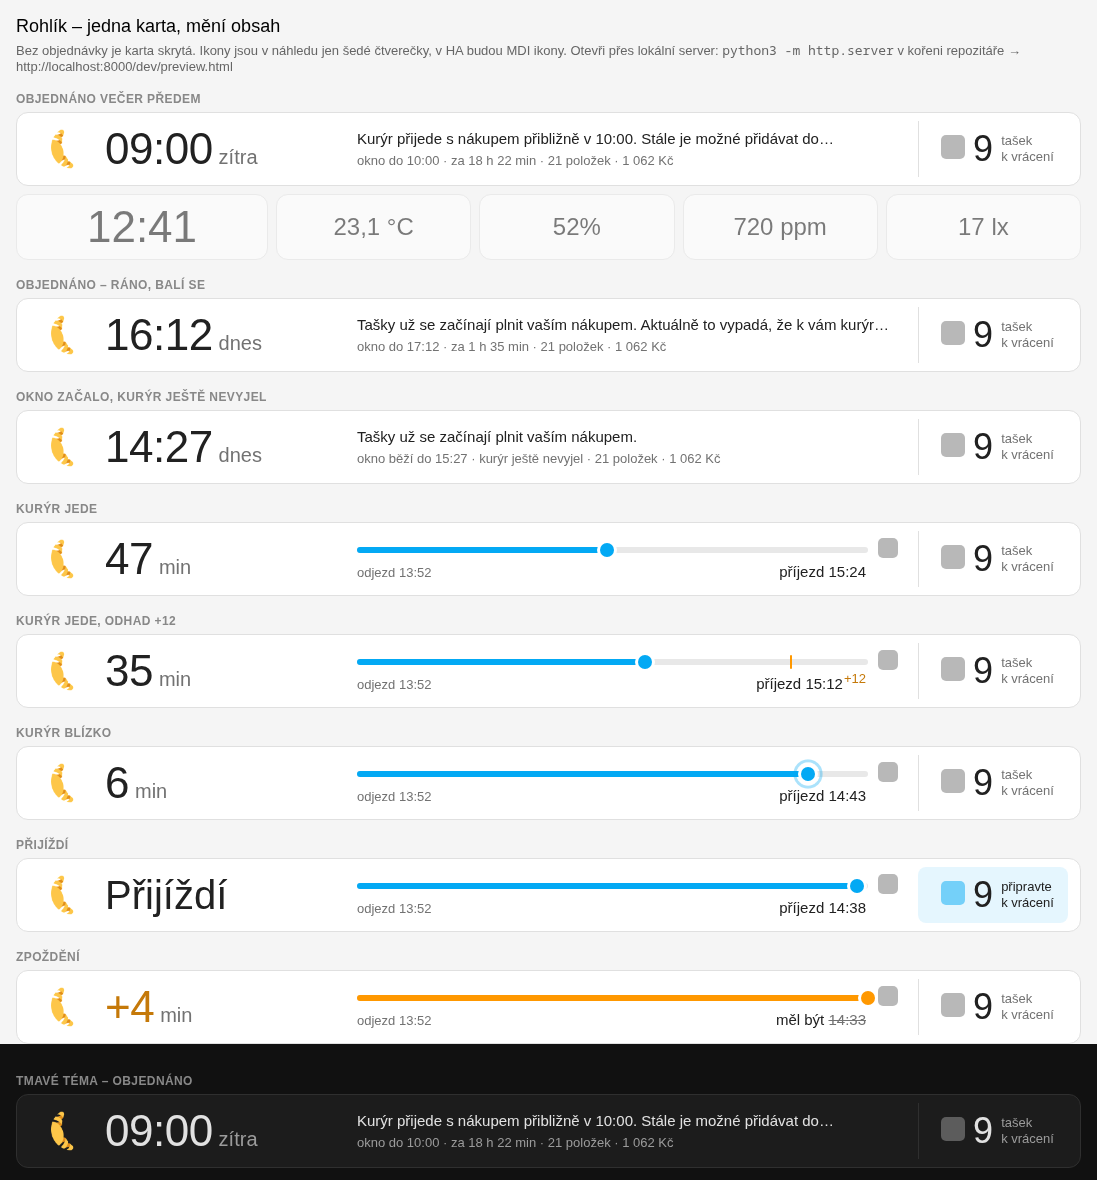
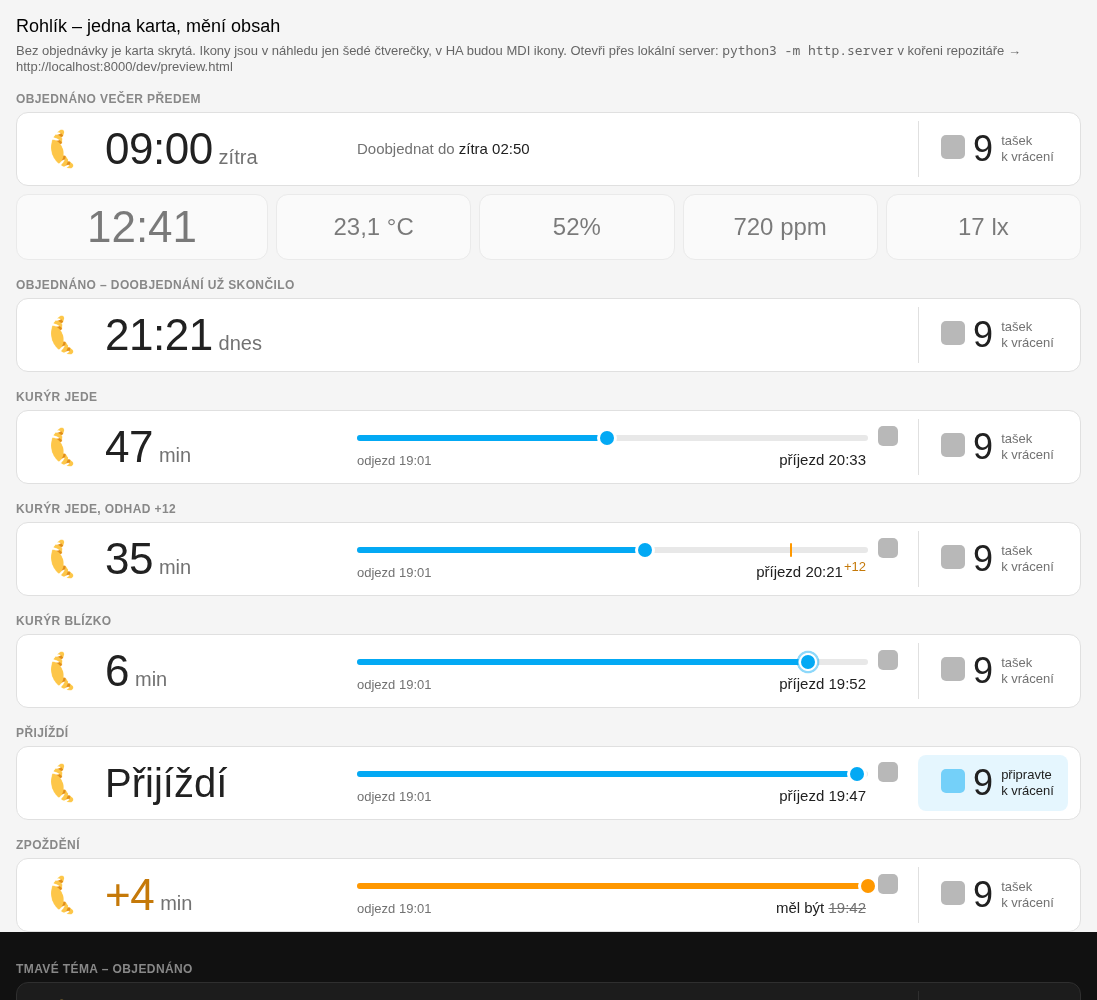
Ordered state: delivery time and add-items deadline; tap for the item list (v1.0.3)
- Ordered shows only the delivery time and until when items can be added
- Tapping opens a dialog with the order's items (from the integration's
  Next Order items), falling back to more-info
- number_weight option (regular/bold) for the big numbers
- Editor preview note sits on the top border, clear of the content

diff --git a/rohlik-courier-card.js b/rohlik-courier-card.js
@@ -15,10 +15,10 @@
  * (https://github.com/hruskin/HA-Rohlik-dynamic) for the courier states.
  *
  * Entities are found by the integration's translation keys; override with
- * `<name>_entity` (courier, eta, minutes, bags, ordered, info, since, till).
+ * `<name>_entity` (courier, eta, minutes, bags, ordered, info, since, till, deadline).
  */
 
-const VERSION = "1.0.2";
+const VERSION = "1.0.3";
 const DOMAIN = "rohlikcz";
 const KEYS = {
   courier: ["binary_sensor", "courier_on_the_way"],
@@ -29,6 +29,7 @@ const KEYS = {
   info: ["sensor", "delivery_info"],
   since: ["sensor", "next_order_since"],
   till: ["sensor", "next_order_till"],
+  deadline: ["sensor", "order_edit_deadline"],
 };
 // Rohlík.cz brand icon from the Home Assistant brands repository (what HA itself shows).
 const LOGO_URL = "https://brands.home-assistant.io/rohlikcz/icon.png";
@@ -51,6 +52,7 @@ const STYLE = `
   --rk-warn-text: color-mix(in srgb, var(--rk-warn) 74%, var(--rk-text));
   --rk-rail: color-mix(in srgb, var(--rk-text) 10%, transparent);
   --rk-state: var(--rk-accent);
+  --rk-num-weight: 400;
 
   position: relative;
   box-sizing: border-box;
@@ -90,7 +92,7 @@ ha-icon { display: block; }
 .count { grid-area: count; min-width: 0; }
 .count__main { display: flex; align-items: baseline; gap: 6px; white-space: nowrap; }
 .count__num {
-  font-size: 44px; line-height: 44px; font-weight: 400; letter-spacing: -.5px;
+  font-size: 44px; line-height: 44px; font-weight: var(--rk-num-weight); letter-spacing: -.5px;
   font-variant-numeric: tabular-nums;
 }
 .count__unit { font-size: 20px; color: var(--rk-text-2); }
@@ -137,7 +139,8 @@ ha-icon { display: block; }
   font-size: 15px; line-height: 20px; color: var(--rk-text);
   display: -webkit-box; -webkit-line-clamp: 1; -webkit-box-orient: vertical; overflow: hidden;
 }
-.info__meta { margin-top: 4px; font-size: 13px; line-height: 16px; color: var(--rk-text-2); font-variant-numeric: tabular-nums; }
+.info__msg b { font-weight: 500; }
+.info__msg span { color: var(--rk-text-2); }
 .banner--ordered .info { display: block; }
 .banner--ordered .track { display: none; }
 
@@ -151,12 +154,42 @@ ha-icon { display: block; }
   border-left: 1px solid var(--rk-border);
 }
 .bags__icon { color: var(--rk-text-2); --mdc-icon-size: 24px; }
-.bags__num { font-size: 36px; line-height: 40px; font-variant-numeric: tabular-nums; }
+.bags__num { font-size: 36px; line-height: 40px; font-weight: var(--rk-num-weight); font-variant-numeric: tabular-nums; }
 .bags__cap { font-size: 13px; line-height: 16px; color: var(--rk-text-2); white-space: pre-line; }
 
+/* order items: a native modal dialog, so it escapes the card's containment */
+.items {
+  box-sizing: border-box; width: min(480px, calc(100vw - 32px)); max-height: min(80vh, 640px);
+  padding: 0; border: none; border-radius: var(--ha-card-border-radius, 12px);
+  background: var(--card-background-color, #fff); color: var(--primary-text-color, #212121);
+  font-family: var(--ha-font-family-body, Roboto, "Helvetica Neue", Arial, sans-serif);
+  box-shadow: 0 8px 32px rgba(0, 0, 0, .25);
+}
+.items[open] { display: flex; flex-direction: column; }
+.items::backdrop { background: rgba(0, 0, 0, .4); }
+.items__head {
+  display: flex; align-items: center; gap: 12px; padding: 16px 12px 12px 20px;
+  border-bottom: 1px solid var(--divider-color, #e0e0e0);
+}
+.items__title { flex: 1; font-size: 18px; font-weight: 500; }
+.items__close {
+  width: 36px; height: 36px; border: none; border-radius: 50%; background: none; cursor: pointer;
+  color: var(--secondary-text-color, #727272); font-size: 24px; line-height: 36px;
+}
+.items__close:hover { background: color-mix(in srgb, var(--primary-text-color, #212121) 8%, transparent); }
+.items__list { list-style: none; margin: 0; padding: 4px 0 12px; overflow-y: auto; outline: none; }
+.items__list li {
+  display: flex; justify-content: space-between; gap: 16px; padding: 10px 20px;
+  font-size: 15px; line-height: 20px;
+}
+.items__list li + li { border-top: 1px solid color-mix(in srgb, var(--divider-color, #e0e0e0) 60%, transparent); }
+.items__qty { flex: none; color: var(--secondary-text-color, #727272); font-variant-numeric: tabular-nums; }
+
+/* sits on the top border like a fieldset legend, clear of the content */
 .preview-note {
-  position: absolute; top: 6px; right: 12px;
-  font-size: 11px; color: var(--rk-text-2); letter-spacing: .3px; text-transform: uppercase;
+  position: absolute; top: 0; left: 50%; transform: translate(-50%, -50%);
+  padding: 0 8px; background: var(--rk-bg); white-space: nowrap;
+  font-size: 11px; line-height: 14px; color: var(--rk-text-2); letter-spacing: .3px; text-transform: uppercase;
 }
 
 .banner--nearby .track__marker::after {
@@ -218,13 +251,18 @@ const TEMPLATE = `
     </div>
     <div class="track__labels"><span class="track__dep"></span><span class="track__eta"></span></div>
   </div>
-  <div class="info"><div class="info__msg"></div><div class="info__meta"></div></div>
+  <div class="info"><div class="info__msg"></div></div>
   <div class="bags">
     <div class="bags__icon"><ha-icon icon="mdi:shopping-outline" aria-hidden="true"></ha-icon></div>
     <div class="bags__num"></div>
     <div class="bags__cap"></div>
   </div>
-</div>`;
+</div>
+<dialog class="items" aria-label="Položky nákupu">
+  <div class="items__head"><span class="items__title"></span><button class="items__close" aria-label="Zavřít">×</button></div>
+  <ul class="items__list" tabindex="-1"></ul>
+</dialog>
+`;
 
 const plural = (n, one, few, many) => (n === 1 ? one : n >= 2 && n <= 4 ? few : many);
 const hm = (date) => date.toLocaleTimeString("cs-CZ", { hour: "2-digit", minute: "2-digit" });
@@ -242,14 +280,6 @@ const relativeDay = (date, now) => {
   const weekday = date.toLocaleDateString("cs-CZ", { weekday: "short" });
   return `${weekday} ${date.getDate()}. ${date.getMonth() + 1}.`;
 };
-// "za 14 h 18 min" / "za 40 min"
-const inDuration = (ms) => {
-  const total = Math.max(0, Math.round(ms / 60000));
-  const h = Math.floor(total / 60), m = total % 60;
-  return h ? `za ${h} h${m ? ` ${m} min` : ""}` : `za ${m} min`;
-};
-const price = (amount) =>
-  `${Number(amount).toLocaleString("cs-CZ", { maximumFractionDigits: 0 })} Kč`;
 
 class RohlikCourierCard extends HTMLElement {
   static getStubConfig() {
@@ -320,7 +350,7 @@ class RohlikCourierCard extends HTMLElement {
     const $ = (sel) => root.querySelector(sel);
     this._el = {
       banner: $(".banner"), icon: $(".icon ha-icon"), num: $(".count__num"), unit: $(".count__unit"),
-      sub: $(".count__sub"), track: $(".track"), msg: $(".info__msg"), meta: $(".info__meta"), rail: $(".track__rail"), orig: $(".track__orig"),
+      sub: $(".count__sub"), track: $(".track"), msg: $(".info__msg"), rail: $(".track__rail"), orig: $(".track__orig"),
       dep: $(".track__dep"), eta: $(".track__eta"), bagsNum: $(".bags__num"), bagsCap: $(".bags__cap"),
       iconTile: $(".icon"), logo: $(".icon__logo"),
     };
@@ -329,7 +359,12 @@ class RohlikCourierCard extends HTMLElement {
       this._logoFailed = true;
       this._el.iconTile.classList.remove("icon--logo");
     });
+    const dialog = root.querySelector(".items");
+    root.querySelector(".items__close").addEventListener("click", () => dialog.close());
+    // A click on the backdrop lands on the dialog element itself.
+    dialog.addEventListener("click", (ev) => ev.target === dialog && dialog.close());
     const open = () => {
+      if (this._openItems(dialog)) return;
       const entityId = this._entityId(this._mode === "ordered" ? "ordered" : "courier");
       if (!entityId) return;
       this.dispatchEvent(new CustomEvent("hass-more-info", { detail: { entityId }, bubbles: true, composed: true }));
@@ -341,6 +376,34 @@ class RohlikCourierCard extends HTMLElement {
         open();
       }
     });
+  }
+
+  // The order's line items in a modal; false when the integration has none to show.
+  _openItems(dialog) {
+    const items = this._state("ordered")?.attributes?.items;
+    if (!Array.isArray(items) || !items.length) return false;
+    dialog.querySelector(".items__title").textContent =
+      `Nákup · ${items.length} ${plural(items.length, "položka", "položky", "položek")}`;
+    const list = dialog.querySelector(".items__list");
+    list.replaceChildren(...items.map((item) => {
+      const li = document.createElement("li");
+      const name = document.createElement("span");
+      name.textContent = item.name ?? "";
+      const qty = document.createElement("span");
+      qty.className = "items__qty";
+      const amount = Number(item.amount) || 1;
+      const textual = item.textual_amount || "";
+      const perPiece = textual.match(/^1\s+(\S+)$/); // "1 ks" × 4 → "4 ks"
+      qty.textContent = amount <= 1 ? textual || "1 ks"
+        : perPiece ? `${amount} ${perPiece[1]}`
+        : `${amount} ×${textual ? ` ${textual}` : ""}`;
+      li.append(name, qty);
+      return li;
+    }));
+    dialog.showModal();
+    list.focus(); // not the close button, which would show a focus ring
+    list.scrollTop = 0;
+    return true;
   }
 
   _data() {
@@ -375,22 +438,18 @@ class RohlikCourierCard extends HTMLElement {
   _orderedData() {
     const order = this._state("ordered")?.attributes?.order_data || {};
     const slot = order.deliverySlot || {};
-    const info = this._state("info")?.state;
     const bags = Number.parseInt(this._state("bags")?.state, 10);
     return {
       mode: "ordered", now: Date.now(),
       since: toDate(this._state("since")?.state) || toDate(slot.since),
       till: toDate(this._state("till")?.state) || toDate(slot.till),
-      message: info && !["unknown", "unavailable"].includes(info) ? info : null,
-      items: order.itemsCount ?? null,
-      total: order.priceComposition?.total?.amount ?? null,
+      deadline: toDate(this._state("deadline")?.state),
       bags: Number.isNaN(bags) ? null : bags,
     };
   }
 
   _renderOrdered(d) {
     const el = this._el;
-    const started = d.since && d.now >= d.since;
     el.banner.className = "banner banner--ordered";
     el.icon.setAttribute("icon", "mdi:package-variant-closed");
     el.num.textContent = d.since ? hm(d.since) : "–";
@@ -398,18 +457,16 @@ class RohlikCourierCard extends HTMLElement {
     el.unit.textContent = d.since ? relativeDay(d.since, d.now) : "";
     const till = d.till ? hm(d.till) : null;
     el.sub.textContent = "";
-    el.msg.textContent = d.message || "Objednávka čeká na doručení";
-    el.meta.textContent = [
-      ...(started
-        ? [`okno běží${till ? ` do ${till}` : ""}`, "kurýr ještě nevyjel"]
-        : [till ? `okno do ${till}` : null, d.since ? inDuration(d.since - d.now) : null]),
-      d.items != null ? `${d.items} ${plural(d.items, "položka", "položky", "položek")}` : null,
-      d.total != null ? price(d.total) : null,
-    ].filter(Boolean).join(" · ");
+    // Only until when items can still be added; nothing once that has passed.
+    const canAdd = d.deadline && d.deadline > d.now;
+    el.msg.innerHTML = canAdd
+      ? `<span>Doobjednat do</span> <b>${relativeDay(d.deadline, d.now)} ${hm(d.deadline)}</b>`
+      : "";
     el.bagsNum.textContent = String(d.bags ?? "–");
     el.bagsCap.textContent = `${plural(d.bags ?? 0, "taška", "tašky", "tašek")}\nk vrácení`;
     el.banner.setAttribute("aria-label",
-      `Rohlík: objednávka${d.since ? ` dorazí ${relativeDay(d.since, d.now)} od ${hm(d.since)}` : ""}${till ? ` do ${till}` : ""}.`);
+      `Rohlík: objednávka${d.since ? ` dorazí ${relativeDay(d.since, d.now)} od ${hm(d.since)}` : ""}${till ? ` do ${till}` : ""}.`
+      + (canAdd ? ` Doobjednat lze do ${relativeDay(d.deadline, d.now)} ${hm(d.deadline)}.` : ""));
   }
 
   _render() {
@@ -424,6 +481,7 @@ class RohlikCourierCard extends HTMLElement {
     const logo = this._config.show_logo !== false && !this._logoFailed;
     if (logo && !el.logo.getAttribute("src")) el.logo.src = LOGO_URL;
     el.iconTile.classList.toggle("icon--logo", logo);
+    el.banner.style.setProperty("--rk-num-weight", this._config.number_weight === "bold" ? "600" : "400");
     if (d.mode === "ordered") {
       this._renderOrdered(d);
       return;
@@ -501,9 +559,22 @@ const ENTITY_FIELDS = [
   ["info_entity", "Informace o doručení", "sensor"],
   ["since_entity", "Začátek doručení", "sensor"],
   ["till_entity", "Konec doručení", "sensor"],
+  ["deadline_entity", "Doobjednat do", "sensor"],
 ];
 const EDITOR_SCHEMA = [
   { name: "show_logo", selector: { boolean: {} } },
+  {
+    name: "number_weight",
+    selector: {
+      select: {
+        mode: "dropdown",
+        options: [
+          { value: "regular", label: "Normální" },
+          { value: "bold", label: "Tučné" },
+        ],
+      },
+    },
+  },
   {
     name: "entities",
     type: "expandable",
@@ -517,6 +588,7 @@ const EDITOR_SCHEMA = [
 ];
 const EDITOR_LABELS = {
   show_logo: "Logo Rohlíku vlevo",
+  number_weight: "Písmo čísel",
   ...Object.fromEntries(ENTITY_FIELDS.map(([name, label]) => [name, label])),
 };
 
@@ -546,14 +618,16 @@ class RohlikCourierCardEditor extends HTMLElement {
         for (const [key, value] of Object.entries(config)) {
           if (value === "" || value === undefined || value === null) delete config[key];
         }
-        if (config.show_logo === true) delete config.show_logo; // default
+        // Keep defaults out of the YAML.
+        if (config.show_logo === true) delete config.show_logo;
+        if (config.number_weight === "regular") delete config.number_weight;
         this._config = config;
         this.dispatchEvent(new CustomEvent("config-changed", { detail: { config }, bubbles: true, composed: true }));
       });
       this.append(note, this._form);
     }
     this._form.hass = this._hass;
-    this._form.data = { show_logo: true, ...this._config };
+    this._form.data = { show_logo: true, number_weight: "regular", ...this._config };
   }
 }
 

diff --git a/dev/preview.html b/dev/preview.html
@@ -18,18 +18,19 @@ const now=Date.now(),m=60000,iso=t=>new Date(t).toISOString();
 const day=new Date();day.setHours(0,0,0,0);
 const at=(d,h,mi=0)=>day.getTime()+d*86400000+(h*60+mi)*m;
 const E=(id,k)=>({entity_id:id,platform:'rohlikcz',translation_key:k});
-const ents={};[['binary_sensor.k','courier_on_the_way'],['sensor.e','delivery_time'],['sensor.m','delivery_minutes'],['sensor.b','bags_amount'],['binary_sensor.o','is_ordered'],['sensor.i','delivery_info'],['sensor.s','next_order_since'],['sensor.t','next_order_till']].forEach(([i,k])=>ents[i]=E(i,k));
+const ents={};[['binary_sensor.k','courier_on_the_way'],['sensor.e','delivery_time'],['sensor.m','delivery_minutes'],['sensor.b','bags_amount'],['binary_sensor.o','is_ordered'],['sensor.i','delivery_info'],['sensor.s','next_order_since'],['sensor.t','next_order_till'],['sensor.d','order_edit_deadline']].forEach(([i,k])=>ents[i]=E(i,k));
 function hass(o){const st={};
- st['binary_sensor.o']={state:'on',attributes:{order_data:{id:1,itemsCount:21,priceComposition:{total:{amount:1062.44}},deliverySlot:{since:iso(o.since),till:iso(o.till)}}}};
+ st['binary_sensor.o']={state:'on',attributes:{order_data:{id:1,itemsCount:21,priceComposition:{total:{amount:1062.44}},deliverySlot:{since:iso(o.since),till:iso(o.till)}},items:ITEMS}};
+ st['sensor.d']={state:o.deadline?iso(o.deadline):'unknown'};
  st['sensor.s']={state:iso(o.since)};st['sensor.t']={state:iso(o.till)};st['sensor.i']={state:o.msg||'unknown'};st['sensor.b']={state:'9'};
  if(o.mins!==undefined){const eta=now+o.mins*m;st['binary_sensor.k']={state:'on',attributes:{departed_at:iso(now-45*m),initial_eta:iso(eta-(o.shift||0)*m),courier:'Petr',phone:o.phone||null,nearby:!!o.phone}};st['sensor.e']={state:iso(eta)};st['sensor.m']={state:String(o.mins)};}
  else st['binary_sensor.k']={state:'off',attributes:{}};
  return {entities:ents,states:st};}
+const ITEMS=[['Miil Máslo 82%',2,'250 g'],['BIO kiwi kus (cca 80g)',4,'1 ks'],['Vepřová plec',1,'0,941 kg'],['Rohlíkův Žitný rohlík',2,'70 g'],['Miil Gouda 47% plátky',6,'150 g'],['Čerstvě utrženo – Rajčata koktejlová cherry',1,'320 g'],['Uniferm droždí čerstvé',1,'42 g'],['Charlie\'s Organics BIO Mučenka plech',1,'330 ml']].map(([name,amount,textual_amount])=>({name,amount,textual_amount}));
 const cases=[
- ['Objednáno večer předem',{since:at(1,9),till:at(1,10),msg:'Kurýr přijede s nákupem přibližně v 10:00. Stále je možné přidávat do objednávky další zboží.'}],
- ['Objednáno – ráno, balí se',{since:now+95*m,till:now+155*m,msg:'Tašky už se začínají plnit vaším nákupem. Aktuálně to vypadá, že k vám kurýr dorazí zhruba v 09:00. Na viděnou!'}],
- ['Okno začalo, kurýr ještě nevyjel',{since:now-10*m,till:now+50*m,msg:'Tašky už se začínají plnit vaším nákupem.'}],
- ['Kurýr jede',{since:at(0,9),till:at(0,10),mins:47}],
+ ['Objednáno večer předem',{since:at(1,9),till:at(1,10),deadline:at(1,2)+50*m,msg:'Kurýr přijede s nákupem přibližně v 10:00. Stále je možné přidávat do objednávky další zboží.'}],
+ ['Objednáno – doobjednání už skončilo',{since:now+95*m,till:now+155*m,deadline:now-60*m,msg:'Tašky už se začínají plnit vaším nákupem. Aktuálně to vypadá, že k vám kurýr dorazí zhruba v 09:00. Na viděnou!'}],
+  ['Kurýr jede',{since:at(0,9),till:at(0,10),mins:47}],
  ['Kurýr jede, odhad +12',{since:at(0,9),till:at(0,10),mins:35,shift:12}],
  ['Kurýr blízko',{since:at(0,9),till:at(0,10),mins:6,phone:'+420000000001'}],
  ['Přijíždí',{since:at(0,9),till:at(0,10),mins:1,phone:'+420000000001'}],

diff --git a/README.md b/README.md
@@ -5,10 +5,11 @@
 
 A slim full-width Home Assistant dashboard banner for [Rohlík.cz](https://www.rohlik.cz) deliveries. It changes with your order and stays out of the way otherwise:
 
-- **Ordered** — the delivery window (`09:00 zítra`, `okno do 10:00 · za 19 h`), Rohlík's latest message and the order summary.
+- **Ordered** — the delivery time (`09:00 zítra`) and until when items can still be added (`Doobjednat do zítra 02:50`).
 - **Courier on the way** — the countdown to the live ETA and the trip progress from the courier's departure to the live ETA (the marker slides back and a small *+N* appears when the ETA moves later), a pulsing marker in the final minutes, *Přijíždí* at arrival and *+N min* in orange when late. The courier's name and phone stay in the sensor's details.
 - **Always** — the reusable bags to hand back to the courier.
 - **No order** — hidden (the dashboard editor shows a preview).
+- **Tap** — the list of items in the order (name and amount).
 
 The banner is about 72 px tall in every state, follows the dashboard theme (light and dark) and its texts are Czech.
 
@@ -16,7 +17,7 @@ The banner is about 72 px tall in every state, follows the dashboard theme (ligh
 
 ## Requirements
 
-- The Rohlík.cz integration with courier tracking — [hruskin/HA-Rohlik-dynamic](https://github.com/hruskin/HA-Rohlik-dynamic) ≥ 1.0.2. It provides the *Courier on the way* and *Minutes to delivery* entities; with the upstream integration only the *ordered* state works.
+- The Rohlík.cz integration with courier tracking — [hruskin/HA-Rohlik-dynamic](https://github.com/hruskin/HA-Rohlik-dynamic) ≥ 1.0.3. It provides the *Courier on the way*, *Minutes to delivery* and *Add items until* entities and the order's items; with the upstream integration only the delivery time of the *ordered* state works.
 
 ## Installation
 
@@ -40,6 +41,7 @@ Everything can be set in the visual editor. The card finds the integration's ent
 | Option | Meaning |
 |---|---|
 | `show_logo` | Rohlík.cz logo on the left (default `true`; loaded from the Home Assistant brands repository, falls back to a state icon offline) |
+| `number_weight` | `regular` (default) or `bold` — weight of the big countdown/time and bags numbers |
 | `courier_entity` | binary sensor *Courier on the way* |
 | `eta_entity` | sensor *Delivery time* |
 | `minutes_entity` | sensor *Minutes to delivery* |
@@ -47,8 +49,9 @@ Everything can be set in the visual editor. The card finds the integration's ent
 | `ordered_entity` | binary sensor *Next order* |
 | `info_entity` | sensor *Delivery info* |
 | `since_entity` / `till_entity` | sensors *Delivery slot start / end* |
+| `deadline_entity` | sensor *Add items until* |
 
-Tapping the banner opens the order or the courier details.
+Tapping the banner opens the list of items in the order; without items (older integration) it opens the order or the courier details.
 
 ## Development
 
